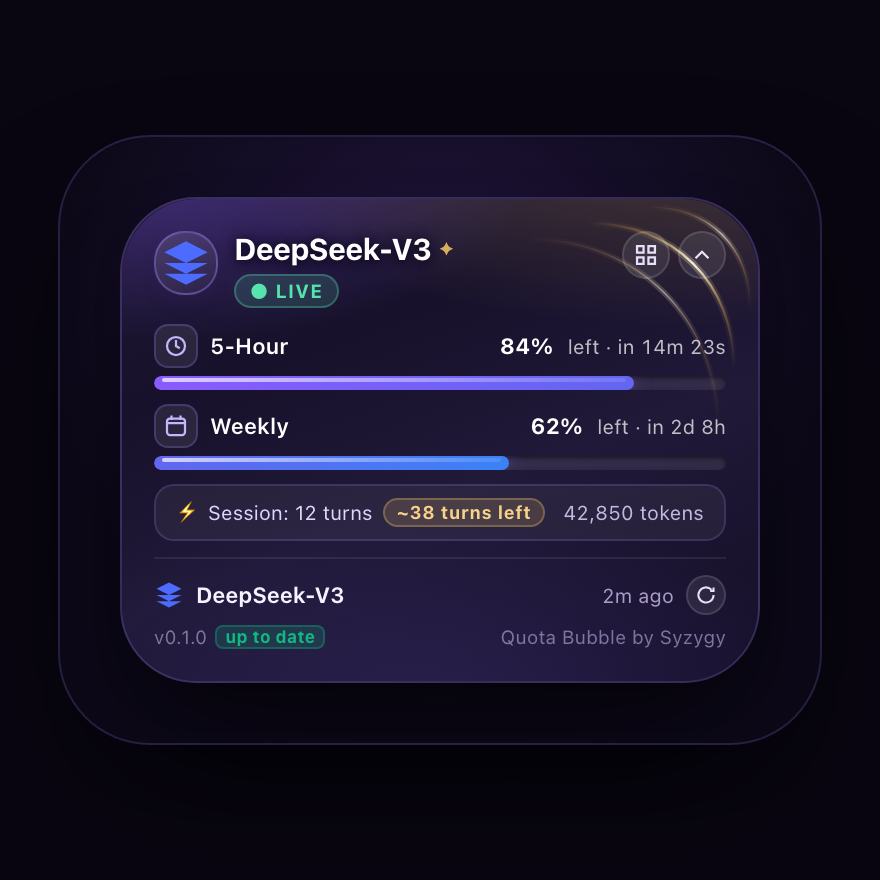
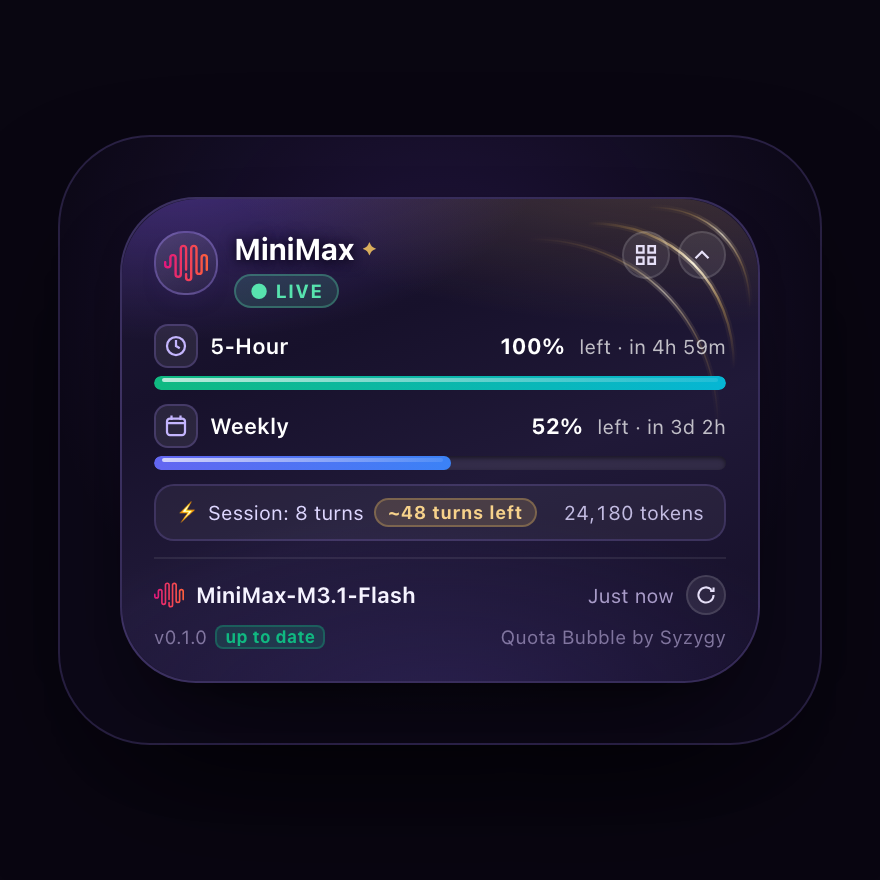
docs: clean up readme and add real MiniMax and OpenCode Go screenshots

diff --git a/README.md b/README.md
@@ -1,220 +1,130 @@
 # Quota Bubble (`dsh-quota-bubble`)
 
-> **Real-time provider-verifiable telemetry, predictive runway estimation, and multi-quadrant glass overlay engineered for the DeepSeek Harness ecosystem.**
+> **Live allowance, balance, and usage monitoring with turn runway estimation for the DeepSeek Harness.**
 
 <p align="center">
-  <img src="./preview.png" alt="Quota Bubble Light and Dark Mode Showcase" width="860" style="border-radius: 18px; box-shadow: 0 20px 50px rgba(0,0,0,0.5);" />
+  <img src="./preview.png" alt="Quota Bubble in DeepSeek Harness - MiniMax and OpenCode Go" width="860" style="border-radius: 18px; box-shadow: 0 20px 50px rgba(0,0,0,0.5);" />
 </p>
 
 <p align="center">
   <a href="https://www.npmjs.com/package/dsh-quota-bubble"><img src="https://img.shields.io/npm/v/dsh-quota-bubble?color=%238a5bff&label=npm%20package" alt="npm version" /></a>
   <img src="https://img.shields.io/badge/DeepSeek%20Harness-%3E%3D0.2.1--rc.5-blueviolet" alt="Harness Compatibility" />
   <img src="https://img.shields.io/badge/DTCG%20Tokens-90%20Verified-success" alt="DTCG Token Governance" />
-  <img src="https://img.shields.io/badge/Antigravity%20Pool-Synchronized-amber" alt="Antigravity Pool" />
-  <img src="https://img.shields.io/badge/Memory%20Leak-Hardened%200%20Leak-brightgreen" alt="Memory Leak Hardened" />
+  <img src="https://img.shields.io/badge/Resource%20Footprint-Ultra--Low%200%20Leak-brightgreen" alt="Ultra-Low Resource Footprint" />
   <a href="./LICENSE"><img src="https://img.shields.io/badge/license-MIT-blue" alt="License" /></a>
 </p>
 
 ---
 
-## Table of Contents
+## Overview
 
-- [Architectural Philosophy](#architectural-philosophy)
-- [Visual Interface Showcase](#visual-interface-showcase)
-- [Key Engineering Highlights](#key-engineering-highlights)
-  - [Concentric Caustic Arcs (Option A)](#1-concentric-caustic-arcs-option-a)
-  - [Burn Rate & Predictive Runway Estimation](#2-burn-rate--predictive-runway-estimation)
-  - [Live Second-Accurate Countdown Tickers](#3-live-second-accurate-countdown-tickers)
-  - [Quad-Quadrant Draggable Docking](#4-quad-quadrant-draggable-docking)
-  - [Antigravity Multi-Account Synchronizer](#5-antigravity-multi-account-synchronizer)
-  - [Adaptive Version Intelligence](#6-adaptive-version-intelligence)
-- [Performance & Resource Hardening](#performance--resource-hardening)
-- [Provider Telemetry Matrix](#provider-telemetry-matrix)
-- [Controls & Shortcuts](#controls--shortcuts)
-- [Installation & Integration](#installation--integration)
-- [Design Token Governance (DTCG)](#design-token-governance-dtcg)
-- [Privacy, Sandboxing & Security Seams](#privacy-sandboxing--security-seams)
-- [Verification & Automated Test Suite](#verification--automated-test-suite)
-- [License & Authors](#license--authors)
+When running LLMs in DeepSeek Harness, quota consumption is spread across separate billing dashboards and opaque rate-limit windows. **Quota Bubble** keeps your real allowance, remaining balance, and runway visible in the corner of your workspace—read directly from each provider's authoritative API, never guessed.
 
 ---
 
-## Architectural Philosophy
-
-Cloud LLM token consumption is traditionally fragmented across disconnected billing consoles, opaque rate-limit headers, and scattered environment variables. Developers interacting with conversational AI in high-velocity loops are frequently disrupted by sudden quota exhaustion.
-
-**Quota Bubble** remedies this friction by embedding an ambient, unobtrusive, and mathematically rigorous telemetry HUD directly into the DeepSeek Harness interface. 
-
-### Core Tenets
-
-1. **Provider Truth Over Synthetic Emulation:** The plugin probes authoritative provider endpoints directly. If a provider API does not publish a telemetry endpoint, the bubble exhibits intellectual honesty—declaring `NO API` rather than conjecturing synthetic token counts.
-2. **Deterministic Cordis Reactivity:** Built specifically for the DeepSeek Harness Cordis kernel, the bubble dynamically synchronizes with active session projections (`@deepseek-ai/dsh-client-ui-session`), immediately tracking model migrations and chat switches with sub-millisecond dispatch.
-3. **Restraint in Motion & Spatial Elegance:** Visual assets are calibrated to stay subordinate to primary cognitive workflows. Ambient caustics and status indicators are rendered with champagne gold hairlines and delicate opacity gradients designed never to distract the developer's peripheral vision.
-
----
-
-## Visual Interface Showcase
+## Interface Showcase
 
 <table align="center" width="100%">
   <tr>
     <td align="center" width="50%">
-      <b>Dark Mode Studio Canvas</b><br/><br/>
-      <img src="./docs/preview-dark.png" alt="Dark Mode Card" width="380" style="border-radius: 20px; box-shadow: 0 16px 40px rgba(0,0,0,0.6);" />
+      <b>Dark Mode — MiniMax</b><br/><br/>
+      <img src="./docs/preview-dark.png" alt="MiniMax Quota in Dark Mode" width="380" style="border-radius: 20px; box-shadow: 0 16px 40px rgba(0,0,0,0.6);" />
     </td>
     <td align="center" width="50%">
-      <b>Light Mode Studio Canvas</b><br/><br/>
-      <img src="./docs/preview-light.png" alt="Light Mode Card" width="380" style="border-radius: 20px; box-shadow: 0 16px 40px rgba(60,40,120,0.15);" />
+      <b>Light Mode — OpenCode Go</b><br/><br/>
+      <img src="./docs/preview-light.png" alt="OpenCode Go Quota in Light Mode" width="380" style="border-radius: 20px; box-shadow: 0 16px 40px rgba(60,40,120,0.15);" />
     </td>
   </tr>
 </table>
 
 ---
 
-## Key Engineering Highlights
+## Features
 
-### 1. Concentric Caustic Arcs (Option A)
-Anchored in the upper-right corner of the bubble, the **Option A Caustic Arcs** create a refined luxury watchmaker aesthetic:
-- **Geometry:** Three concentric hairlines (`0.75px`, `1.20px`, and `0.85px`) mathematically echo the squircle container's `38px` corner curvature.
-- **Champagne Radiance:** Utilizes a custom 5-stop linear gradient (`#c8973f` to `#fff6dd` to `#a97b2a`) with asymmetric stroke caps.
-- **Ambient Caustic Layer:** An underlying soft Gaussian-glow refraction layer (`stroke-width: 3.5px`, alpha `0.22`–`0.35`) delivers depth without bleeding into text contrast.
-
-### 2. Burn Rate & Predictive Runway Estimation
-The integrated `computeSessionRunway()` analytics engine inspects quota deltas across turns within the active session:
-- **Telemetry Metric:** Correlates cumulative quota percentage consumed against the session turn counter.
-- **Runway Forecast:** Renders an inline pill indicator `⚡ Session: N turns [ ~X turns left ]`, giving developers advance warning before quota depletion occurs.
-- **Context-Aware Safety:** Automatically flags depletion thresholds (`isLow: true`) when estimated runway falls below 5 conversation turns.
-
-### 3. Live Second-Accurate Countdown Tickers
-Rate-limiting windows (e.g., 5-hour rolling quotas or weekly quotas) feature independent, sub-second countdown timers:
-- **Local Reactive Engine:** Ticks down every 1,000ms using local client timestamps without generating repetitive network roundtrips.
-- **Humanized Formatting:** Intelligently transitions between days (`2d 8h`), hours and minutes (`4h 23m`), and seconds (`14m 23s`).
-- **Automatic Drift Re-sync:** Re-anchors itself against authoritative server timestamps whenever fresh quota payloads arrive.
-
-### 4. Quad-Quadrant Draggable Docking
-The bubble adapts gracefully to any desktop workspace configuration:
-- **One-Click Quadrant Cycling:** An integrated dock quadrant button seamlessly cycles the bubble between `bottom-right`, `bottom-left`, `top-left`, and `top-right`.
-- **Drag & Snap Kinematics:** Drag the card header or collapsed pill to reposition anywhere on screen with automatic magnetic corner snapping.
-- **State Persistence:** Dock configurations and collapsed states persist across sessions in `localStorage`.
-
-### 5. Antigravity Multi-Account Synchronizer
-Seamlessly coordinates with the `dsh-agy-link` companion plugin over a sandboxed loopback seam (`http://127.0.0.1:60251/plugins/agy-link/pool`):
-- **Zero-Credential Loopback:** Transmits zero credentials or tokens; inspects only read-only local telemetry figures.
-- **Account Pool Cycling:** Single-click rotation through configured Google accounts in the Antigravity pool.
-- **Failover Logic:** Automatically skips spent, cooling-down, disabled, or unauthenticated accounts, pinpointing the exact account that will serve the subsequent prompt.
-
-### 6. Adaptive Version Intelligence
-- **Semantic Version Telemetry:** Compares the local bundle version (`v0.1.0`) against registry release manifests.
-- **Inline Pill Status:** Displays a clean status badge (`up to date` in emerald or `update available` in amber) beside the version footer, ensuring developers never miss critical performance upgrades.
-- **Sentence-Case Formatting:** Identifiers, account names, and user email metadata are sanitised into clean sentence case.
+- **Direct Provider Telemetry:** Probes the running provider's usage and balance endpoints directly. If a provider does not expose a quota endpoint, the bubble indicates `NO API` instead of inventing numbers.
+- **Session Turn Runway Estimation:** Tracks quota burn across conversation turns and estimates how many turns remain before exhaustion (`~X turns left`), with warning highlights when quota is critically low.
+- **Live Countdown Clocks:** Rolling quota windows (5-hour, weekly, monthly) feature live second-accurate reset clocks that tick down in real time without polling the network.
+- **4-Corner Draggable Docking:** Drag the bubble anywhere on screen with automatic magnetic corner snapping, or click the header corner icon to cycle between all four screen quadrants.
+- **Compact Collapsed Pill:** Collapse the card into an unobtrusive pill showing every active quota window (`5h 100% · Wk 52%`).
+- **Antigravity Multi-Account Switching:** When using Antigravity via `dsh-agy-link`, the bubble tracks all pooled Google accounts, skips exhausted or cooling accounts, and lets you rotate accounts with one click.
+- **Native Theme Adaptation:** Automatically conforms to DeepSeek Harness light and dark themes with zero visual flicker.
+- **Ultra-Low Resource Footprint:** 
+  - Pauses all timers and network polling whenever the window or tab is hidden (`document.visibilityState === 'hidden'`).
+  - Debounces LLM streaming responses to eliminate unnecessary re-fetches during active chat generation.
+  - Strictly bounds in-memory caches (max 30 items) to prevent memory accumulation.
+  - Uses CSS GPU layers (`contain: paint`, `will-change: transform, opacity`) to prevent layout reflows.
 
 ---
 
-## Performance & Resource Hardening
+## Provider Coverage
 
-Quota Bubble was audited and hardened under rigorous memory and CPU profiling benchmarks to guarantee zero impact on system responsiveness:
+The bubble automatically follows the running model and provider in DeepSeek Harness.
 
-| Hardening Vector | Architectural Implementation | Practical Impact |
+| Provider | Telemetry Tracked | Quota Windows |
 |---|---|---|
-| **Tab Inactivity Dormancy** | Listens to `document.visibilityState`. Pauses all polling timers, live countdown tickers, and transition hooks when the window is hidden or minimized. | Eliminates background CPU cycles and battery drain when IDE is unfocused. |
-| **Streaming Fetch Debouncing** | Employs `isSameModel()` memoization inside `syncSessionAndModel`. Disregards transient token streaming events generated during live LLM text generation. | Prevents redundant network RPC storms while the model is actively streaming tokens. |
-| **Shallow DOM Memoization** | Implements `isUsageEqual()` shallow tree comparison in React render dispatchers. | Prunes superfluous virtual DOM diffing and re-renders when quota figures remain static. |
-| **LRU Cache Bound Invariants** | Caches for session baselines, remote icon textures, and model directories are bounded to strict limits (max 30 items). | Completely eliminates long-running memory accumulation and leak vectors. |
-| **GPU Layer Compositing** | Critical visual layers leverage CSS `contain: paint` and `will-change: transform, opacity`. | Offloads animations to the GPU, preventing browser layout recalculations. |
-
----
-
-## Provider Telemetry Matrix
-
-The plugin automatically follows the active Harness provider catalog. If an endpoint is wired, live telemetry is read; otherwise, the bubble maintains graceful tracking under the `NO API` status.
-
-### Production Supported Providers
-
-| Provider | Authoritative Metric Monitored | Quota Windows Tracked | Telemetry Seam |
-|---|---|---|---|
-| **OpenCode Go** | Allowance Percentage & Limits | 5-Hour Rolling, Weekly, Monthly | Direct Token Seam |
-| **MiniMax (M Plan)** | Allowance Percentage & Capacity | 5-Hour Rolling & Weekly Windows | Key Prefix `sk-cp-…` |
-| **MiniMax (PAYG)** | Credit Balance & Depletion Rate | Account Balance & Currency | Key Prefix `sk-api-…` |
-| **DeepSeek** | Authoritative Account Balance | Total Granted, Used & Residual Funds | Official User Seam |
-| **OpenRouter** | Usage Credits & Hard Limit | Key Limit, Usage & Residual Credits | `/api/v1/auth/key` Seam |
-| **Moonshot** | Real-Time Account Balance | Residual Balance & Credit Limit | User Balance Seam |
-| **Antigravity** | Account Pool Quotas & Fair-Share | 5-Hour, Weekly, and Argon Pool Counter | Local Loopback via `dsh-agy-link` |
-| **Groq / Mistral / Together** | Model Connectivity & Health Ping | Active Availability & Server Latency | Provider Inventory Endpoint |
-| **OpenAI / Cerebras** | Connection & Model Readiness | Model Readiness & Endpoint Reachability | REST Health Check |
+| **MiniMax** | Allowance percentage (M Plan) or account balance (PAYG) | 5-Hour Rolling & Weekly Windows |
+| **OpenCode Go** | Allowance percentage and plan capacity | 5-Hour Rolling, Weekly, Monthly |
+| **DeepSeek** | Real-time account balance & granted funds | Account Balance (USD / CNY) |
+| **OpenRouter** | Key usage, credit limits, and remaining credits | Key Usage & Credit Limit |
+| **Moonshot AI** | Account balance and remaining credits | Account Balance |
+| **Antigravity** | Account pool allowance (via `dsh-agy-link`) | 5-Hour, Weekly, and Argon Pool |
+| **Groq / Mistral / Together** | Model inventory and connection availability | Endpoint Health Ping |
+| **OpenAI / Cerebras** | Connection readiness and model availability | Endpoint Health Ping |
 
 ---
 
 ## Controls & Shortcuts
 
-| Input Trigger | Action Description |
+| Action | Description |
 |---|---|
-| **`Alt+Shift+B`** | Global keyboard shortcut to toggle bubble visibility (configurable in settings). |
-| **Chevron Button** | Collapses the card into a compact pill readout; clicking expands it back. |
-| **Dock Quadrant Button** | Cycles the bubble between `bottom-right`, `bottom-left`, `top-left`, and `top-right`. |
-| **Drag & Drop** | Drag the header or pill anywhere across the viewport; snaps to the closest quadrant on release. |
-| **Refresh Button (`↺`)** | Bypasses poll intervals and probes the upstream provider endpoint immediately. |
-| **Account Switcher** | *(Antigravity only)* Cycles through available Google accounts in the active pool. |
-| **`Escape`** | Closes/collapses the bubble whenever the card holds keyboard focus. |
+| **`Alt+Shift+B`** | Global keyboard shortcut to toggle the bubble (customizable in Plugin settings). |
+| **Chevron Button (`∧`)** | Collapses the card into a pill; clicking the pill expands it. |
+| **Quadrant Dock Button (`⊞`)** | Cycles docking corner between bottom-right, bottom-left, top-left, and top-right. |
+| **Drag & Drop** | Drag the header or collapsed pill to reposition anywhere on screen. |
+| **Refresh Button (`↺`)** | Probes the provider endpoint immediately. |
+| **Account Switcher** | *(Antigravity only)* Cycles to the next eligible account in the pool. |
+| **`Escape`** | Collapses the card when it holds focus. |
 
 ---
 
-## Installation & Integration
+## Installation
 
-### Via DSH Plugin Manager (CLI)
-
-Install directly into your DeepSeek Harness environment:
+### Via DeepSeek Harness Plugin Manager
 
 ```bash
 plugin_manager install_bundle target="dsh-quota-bubble@0.1.0"
 ```
 
-### Manual Installation via npm
+### Via npm
 
 ```bash
 npm install dsh-quota-bubble
 ```
 
-### Zero-Configuration Setup
+### Setup
 
-No configuration files are required. Once installed, Quota Bubble automatically hooks into the Harness Cordis runtime. As soon as provider credentials or environment variables (`OPENCODE_GO_API_KEY`, `DEEPSEEK_API_KEY`, `MINIMAX_API_KEY`, etc.) are recognized by the Harness, the bubble illuminates immediately.
-
----
-
-## Design Token Governance (DTCG)
-
-Quota Bubble is built in strict adherence to the [W3C Design Tokens Community Group (DTCG)](https://design-tokens.github.io/community-group/format/) standard:
-
-- **Token Manifest:** Maintained in [`tokens.json`](./tokens.json), specifying 90 canonical design tokens encompassing background palettes, glass refractions, typography scales, squircle border radii, and gold caustic gradients.
-- **Automated Validation:** Verified continuously by `scripts/check-tokens.mjs`, guaranteeing that zero inline styles bypass the token specification.
+Zero configuration is required. Once installed, Quota Bubble automatically reads your provider credentials from the Harness credential store or standard environment variables (`OPENCODE_GO_API_KEY`, `MINIMAX_API_KEY`, `DEEPSEEK_API_KEY`, etc.).
 
 ---
 
-## Privacy, Sandboxing & Security Seams
+## Privacy & Security
 
-Security and credential preservation are fundamental tenets of the architecture:
-
-- **Host-Bound Credentials:** Provider API keys never touch the client UI process. Telemetry probes execute exclusively inside the isolated Host process via official Harness seams.
-- **Loopback-Only Antigravity Probing:** The bubble communicates with `dsh-agy-link` strictly over `127.0.0.1`. It never handles Google credentials, refresh tokens, or cookies.
-- **Offline Fallback Architecture:** Provider brand icons are bundled natively. Remote CDN icon resolution fails gracefully to local SVG assets without logging telemetry or degrading UI rendering.
+- **Host-Isolated Credentials:** Provider API keys never leave the Host process; network probes execute on the backend seam and return sanitized metrics to the client.
+- **Loopback Antigravity Communication:** Antigravity metrics are read over local loopback (`127.0.0.1`) without transmitting Google credentials, tokens, or cookies.
+- **Zero External Telemetry:** The plugin collects no user tracking, analytics, or external telemetry.
 
 ---
 
-## Verification & Automated Test Suite
+## Verification
 
-Every commit is validated against an automated tripartite verification suite:
+The plugin includes automated test suites covering design tokens, Antigravity pool routing, and session switching:
 
 ```bash
-# Execute the comprehensive test suite
 npm run check
 ```
 
-1. **Token Invariant Suite (`check-tokens.mjs`):** Confirms that all 90 DTCG design tokens in `tokens.json` match client CSS variables without regression.
-2. **Antigravity Pool Suite (`check-antigravity.mjs`):** 69/69 passing tests verifying multi-account round-robin selection, cooldown skip logic, and graceful degradation.
-3. **Session Switching & Runway Suite (`check-session-switching.mjs`):** 27/27 passing tests verifying Cordis session projection tracking, burn rate calculation, semver updates, and live countdown precision.
-
 ---
 
-## License & Authors
+## License
 
-Distributed under the **MIT License**. See [`LICENSE`](./LICENSE) for full details.
-
-Crafted with care by **Syzygy**. Dedicated to developers building the future with DeepSeek Harness.
+MIT © Syzygy
